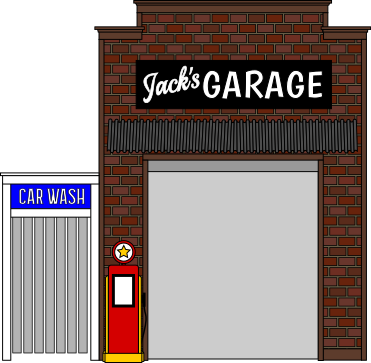
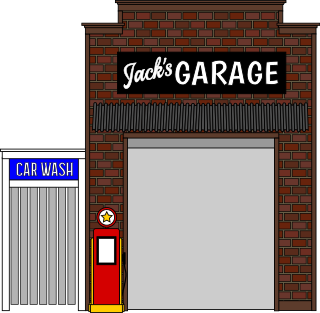
townpic img wh

diff --git a/public/css/styles.css b/public/css/styles.css
@@ -16,11 +16,34 @@ hr {
   background-color:gray
 }
 
-
-.mainLogo {
-  margin-bottom: 5%;
+/* TEXT-ALIGN */
+.textCenterAlign {
+ text-align: center;
 }
 
+.textLeftAlign {
+ text-align: left;
+}
+
+.textRightAlign {
+ text-align: right;
+}
+
+/* COLORS */
+.skyBlue {
+ background-color: #A1CAE2;
+}
+
+.black {
+ background-color: Black;
+}
+
+.grassGreen {
+ background-color: #A8DDA8;
+}
+
+
+/* Navbar */
  .navbar-toggler {
    margin-left: 2%;
  }
@@ -40,27 +63,19 @@ hr {
   height: auto;
 }
 
-.socialIcons{
-  margin: 10px 10px;
-}
-
-.btn:hover {
-  color: white;
-}
-
- /*Sections*/
+/* Home Section */
 .homeSection {
    padding: 10% 10% 5% 10%;
 }
 
-.comingSection {
-  padding: 10% 10% 5% 10%;
+.mainLogo {
+  margin-bottom: 5%;
 }
 
-.comingTile {
-  padding: 2%;
-  color: white;
-  align-content: center;
+/* The Town Section*/
+.carouselBorder {
+  border: 2rem;
+  border-radius: 10;
 }
 
 .townRow {
@@ -71,53 +86,16 @@ hr {
 .townPic {
   align-content: center;
   padding: 4% 2%;
+  width: auto;
+  height: 360px;
 }
 
-.townText {
-  display: flex;
-  align-items: center;
-  padding: 10%;
+#theTown {
+  padding-top: 10%;
+  padding-bottom: 5%;
 }
 
- .rotateLeft {
-   transform: rotate(-25deg);
- }
-
- .rotateRight {
-   transform: rotate(25deg);
- }
-
- .footSection {
-   padding: 10% 10% 5% 10%;
- }
-
- /*TEXT-ALIGN*/
-.textLeftAlign {
-  text-align: left;
-}
-
-.textRightAlign {
-  text-align: right;
-}
-
-.textCenterAlign {
-  text-align: center;
-}
-
-/*COLORS*/
-.skyBlue {
-  background-color: #A1CAE2;
-}
-
-.black {
-  background-color: Black;
-}
-
-.grassGreen {
-  background-color: #A8DDA8;
-}
-
-
+/* MotherGoose Soda Section*/
 .sodaLogo {
   width: 100%;
   height: auto;
@@ -133,45 +111,34 @@ hr {
   padding: 3% 2%;
 }
 
-/*The Waiver*/
-.waiverDoc {
-  background-color: white;
-  text-align: left;
-  font-family: "Times New Roman", serif;
-  padding: 5% 5%;
+/* Coming Soon Section */
+.comingSection {
+  padding: 10% 10% 5% 10%;
 }
 
-.timesNew {
-  font-family: "Times New Roman", serif;
+.comingTile {
+  padding: 2%;
+  color: white;
+  align-content: center;
 }
 
-.indent {
-  margin-left: 2rem;
-}
+/* Footer Section */
+ .footSection {
+   padding: 10% 10% 5% 10%;
+ }
 
-.carouselBorder {
-  border: 2rem;
-  border-radius: 10;
-}
+ .socialIcons{
+   margin: 10px 10px;
+ }
 
-.flex-row {
-  display: flex;
-}
-
-.wrapper {
-  border: 1px solid Black;
-  border-radius: 5;
+/* The Waiver Page*/
+.btn:hover {
+  color: white;
 }
 
 .btn-lg {
   margin: 2%;
 }
-
-.waiverRow {
-  margin-top: 1%;
-  margin-bottom: 2%;
-}
-
 
 canvas#signature-pad {
     width: 100%;
@@ -179,40 +146,49 @@ canvas#signature-pad {
     cursor: crosshair;
 }
 
-#theTown {
-  padding-top: 10%;
-  padding-bottom: 5%;
+.waiverDoc {
+  background-color: white;
+  text-align: left;
+  font-family: "Times New Roman", serif;
+  padding: 5% 5%;
 }
 
+.waiverRow {
+  margin-top: 1%;
+  margin-bottom: 2%;
+}
 
+.indent {
+  margin-left: 2rem;
+}
+
+.timesNew {
+  font-family: "Times New Roman", serif;
+}
+
+.wrapper {
+  border: 1px solid Black;
+  border-radius: 5;
+}
+
+/* Mobile Friendly Conversion */
 @media (max-width: 1028px) {
+  .homeSection {
+    padding-top: 20%;
+  }
+
   .mainLogo {
     margin-bottom: 5%;
     width: 320px;
     height: auto;
   }
 
-  .rotateLeft {
-    transform: rotate(0deg);
-  }
-  .rotateRight {
-    transform: rotate(0deg);
-  }
-  .townPic {
-    padding: 10% 2%;
-  }
-
-  .homeSection {
-    padding-top: 20%;
-  }
-
-  #theTown {
-    padding-top: 20%;
-    padding-bottom: 5%;
-  }
-
   .navbar-nav .nav-link {
     padding-left: 2%;
+  }
+
+  .townPic {
+    padding: 10% 2%;
   }
 
   .waiverRow {
@@ -222,5 +198,10 @@ canvas#signature-pad {
 
   .wrapper{
     height: 200px;
+  }
+
+  #theTown {
+    padding-top: 20%;
+    padding-bottom: 5%;
   }
 }
